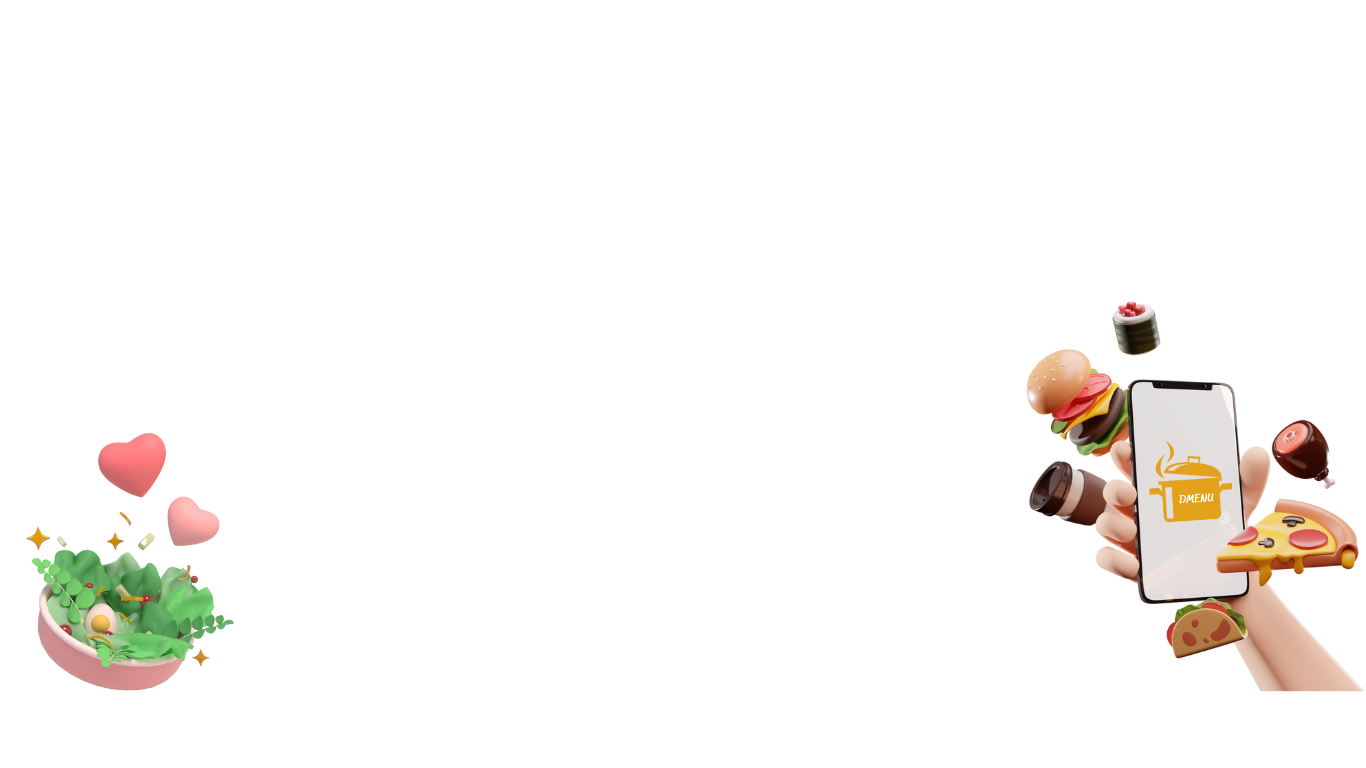
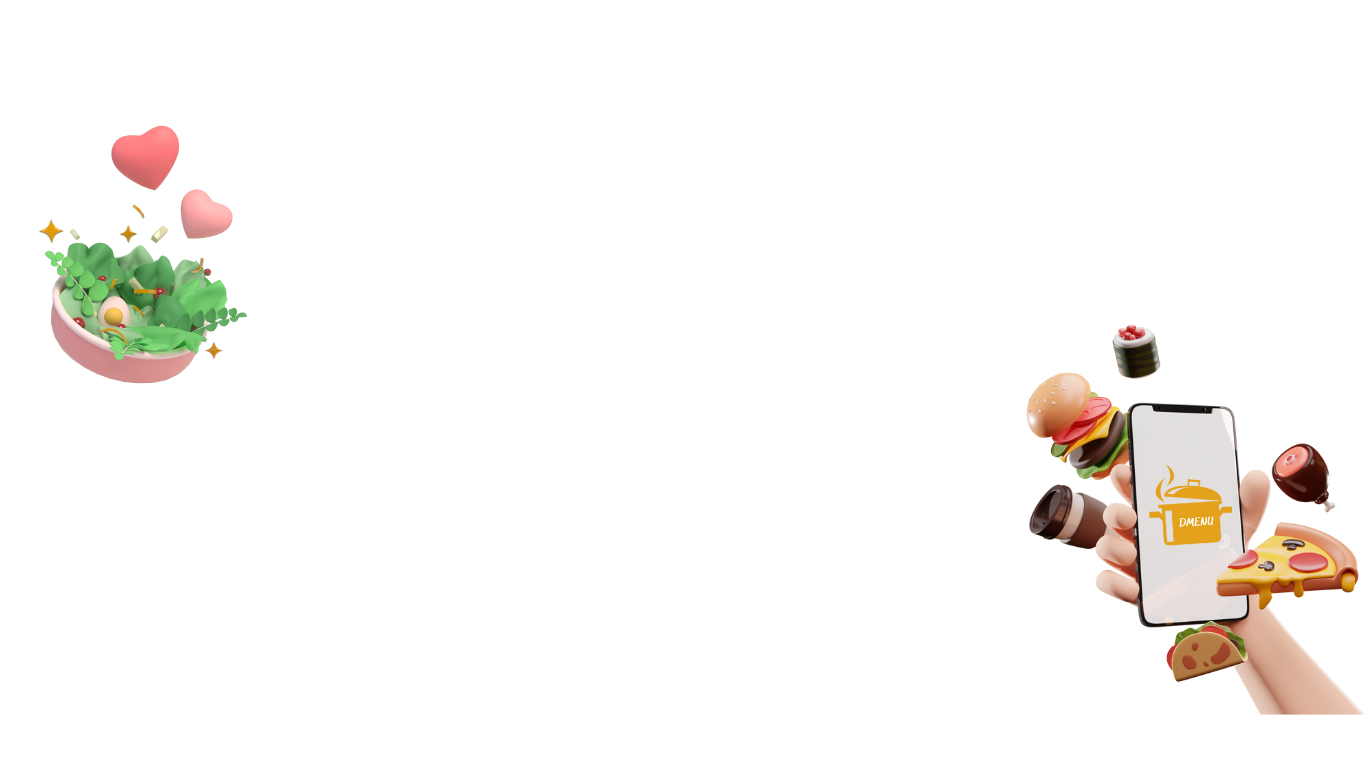
home page changes

diff --git a/resources/css/app.css b/resources/css/app.css
@@ -64,7 +64,7 @@ img{
   }
   @media screen and (max-width: 600px) {
     div.example1 {
-      font-size: 30px;
+      font-size: 15px;
     }
   }
 
@@ -104,7 +104,7 @@ img{
     transform: translate(0, -9px);
 }
 .img-one{
-    background-image: url('https://www.ubuy.com.kh/productimg/?image=aHR0cHM6Ly9tLm1lZGlhLWFtYXpvbi5jb20vaW1hZ2VzL0kvNjEzV0MzT29MRkwuX0FDX1NMMTAwMF8uanBn.jpg');
+    background-image: url("/public/images/basic.png");
     overflow: hidden;
     background-color: #0191B4;
     background-size: cover;
@@ -169,4 +169,16 @@ img{
 }
 .priceplan{
   text-align: center;
+  padding: 10px;
+  font-size: 40px;
+  margin: 10px;
+  color:#0191B4;
+  
+}
+
+.fee {
+  text-align: center;
+  font-size: 20px;
+  padding-top: 0;
+  padding-bottom: 20px;
 }

diff --git a/resources/views/index.blade.php b/resources/views/index.blade.php
@@ -24,6 +24,9 @@
     <div class="priceplan">
         Dmenu service plans
     </div>
+    <div class="fee">
+        No hidden fees. No contract.
+    </div>
         <div class="services">
         <a href="#">
             <span class="single-img img-one">
